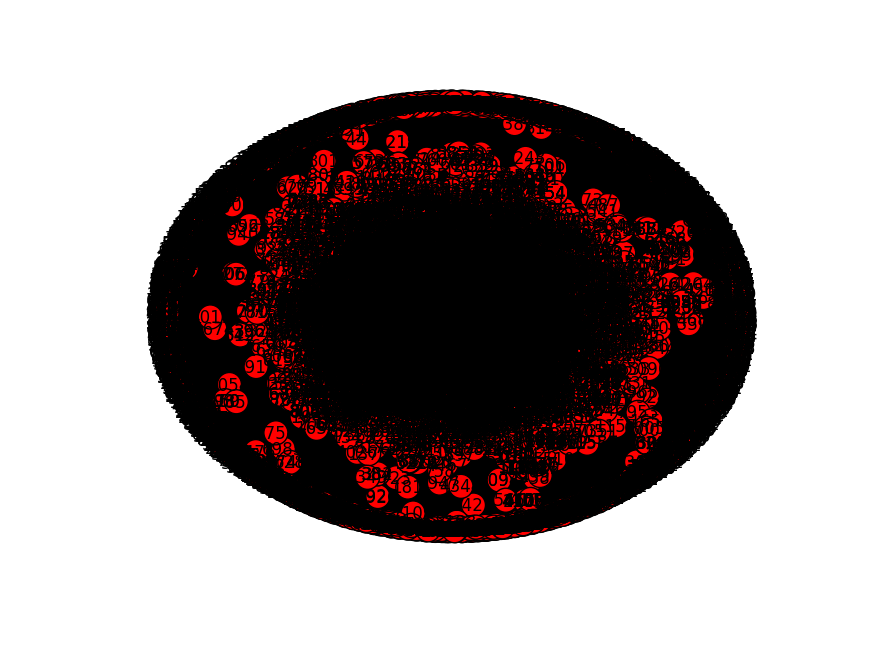
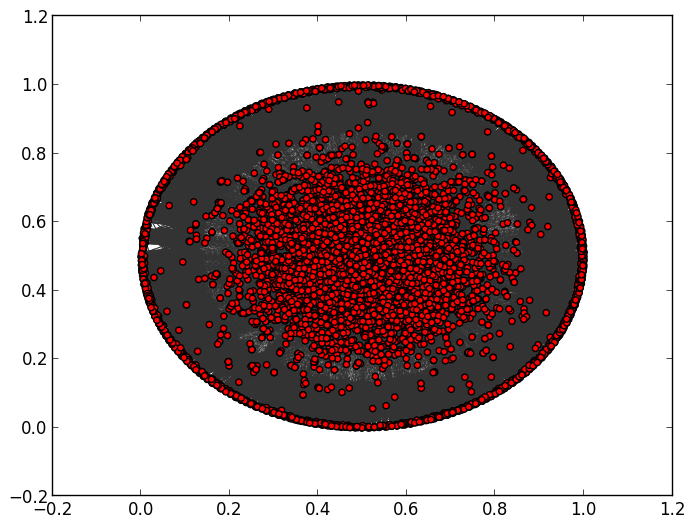
Finished plotting

diff --git a/src/plot.py b/src/plot.py
@@ -120,7 +120,8 @@ def plot_neigh_overlap_dist(neigh_overlaps):
 
 def plot_graph(graph):
     pl.figure()
-    nx.draw_networkx(graph, with_labels=False)
+    nx.draw_networkx(graph, with_labels=False, node_size=20, width=.2,
+            style='dotted', edge_color='0.2')
     pl.savefig(os.path.join(os.path.dirname(__file__),
         '../output/subgraph.png'), bbox_inches='tight')
 
@@ -159,60 +160,45 @@ def main():
     graph = \
         nx.read_gpickle(os.path.join(os.path.dirname(__file__),
             '../data/wiki-vote.gpickle'))
-    #print '----- Finished reading graph -----'
-    #total_degrees, in_degrees, out_degrees = metrics.get_nodes_degrees(graph)
-    #plot_degree_dist(in_degrees, out_degrees, total_degrees)
-    #clus_coeffs = metrics.get_all_nodes_cluster_coeffs(graph)
-    #print scipy.mean(clus_coeffs)
-    #plot_clust_coeff_dist(clus_coeffs)
-    #if nx.is_directed(graph):
-        #strong_ccs_sizes = metrics.get_strongly_ccs_sizes(graph)
-        #plot_strongly_ccs_dist(strong_ccs_sizes)
-        #undirected_graph = graph.to_undirected()
-        #conn_comp_sizes = metrics.get_connected_comp_sizes(undirected_graph)
-    #else:
-        #conn_comp_sizes = metrics.get_connected_comp_sizes(graph)
-    #if len(conn_comp_sizes) > 1:
-        #plot_connected_comp_dist(conn_comp_sizes)
-    #else:
-        #print 'There is only one connected component in the undirected graph.'
-    #neigh_overlaps = metrics.get_neighborhood_overlap(graph).values()
-    #plot_neigh_overlap_dist(neigh_overlaps)
-    #distances = metrics.get_all_nodes_shortest_paths_sizes(graph) 
-    #plot_distances_dist(distances)
-    #edges_betweenness = metrics.get_edges_betweenness(graph)
-    ##nx.write_gpickle(edges_betweenness, os.path.join(os.path.dirname(__file__),
-    ##        '../data/betweenness.gpickle'))
-    ##edges_betweenness = nx.read_gpickle(os.path.join(os.path.dirname(__file__),
-    ##        '../data/betweenness.gpickle'))
-    #plot_edges_betweenness_dist(edges_betweenness) 
-    #nodes_betweenness = metrics.get_nodes_betweenness(graph)
-    ##nx.write_gpickle(nodes_betweenness, os.path.join(os.path.dirname(__file__),
-    ##        '../data/nodes_betweenness.gpickle'))
-    ##nodes_betweenness = nx.read_gpickle(os.path.join(os.path.dirname(__file__),
-    ##        '../data/nodes_betweenness.gpickle'))
-    #plot_nodes_betweenness_dist(nodes_betweenness)
-    #bridges2 = [bridge for bridge in metrics.get_bridges(graph)]
-    #print len(bridges2)
-    #nx.write_gpickle(bridges2, os.path.join(os.path.dirname(__file__),
-    #        '../data/bridges2.gpickle'))
-    #bridges3 = [bridge for bridge in metrics.get_bridges(graph, threshold=3)]
-    #print len(bridges3)
-    #nx.write_gpickle(bridges3, os.path.join(os.path.dirname(__file__),
-    #        '../data/bridges3.gpickle'))
-    #bridges4 = [bridge for bridge in metrics.get_bridges(graph, threshold=4)]
-    #print len(bridges4)
-    #nx.write_gpickle(bridges4, os.path.join(os.path.dirname(__file__),
-    #        '../data/bridges4.gpickle'))
-    #bridges5 = [bridge for bridge in metrics.get_bridges(graph, threshold=5)]
-    #print len(bridges5)
-    #nx.write_gpickle(bridges5, os.path.join(os.path.dirname(__file__),
-    #        '../data/bridges5.gpickle'))
-    bridges6 = [bridge for bridge in metrics.get_bridges(graph, threshold=6)]
-    print len(bridges6)
-    nx.write_gpickle(bridges6, os.path.join(os.path.dirname(__file__),
-            '../data/bridges6.gpickle'))
-    #plot_graph(graph)
+    print '----- Finished reading graph -----'
+    total_degrees, in_degrees, out_degrees = metrics.get_nodes_degrees(graph)
+    plot_degree_dist(in_degrees, out_degrees, total_degrees)
+    clus_coeffs = metrics.get_all_nodes_cluster_coeffs(graph)
+    print scipy.mean(clus_coeffs)
+    plot_clust_coeff_dist(clus_coeffs)
+    if nx.is_directed(graph):
+       #strong_ccs_sizes = metrics.get_strongly_ccs_sizes(graph)
+       #plot_strongly_ccs_dist(strong_ccs_sizes)
+       #undirected_graph = graph.to_undirected()
+       #conn_comp_sizes = metrics.get_connected_comp_sizes(undirected_graph)
+    else:
+       #conn_comp_sizes = metrics.get_connected_comp_sizes(graph)
+    if len(conn_comp_sizes) > 1:
+       #plot_connected_comp_dist(conn_comp_sizes)
+    else:
+       #print 'There is only one connected component in the undirected graph.'
+    neigh_overlaps = metrics.get_neighborhood_overlap(graph).values()
+    plot_neigh_overlap_dist(neigh_overlaps)
+    distances = metrics.get_all_nodes_shortest_paths_sizes(graph)
+    print max(distances)
+    plot_distances_dist(distances)
+    edges_betweenness = metrics.get_edges_betweenness(graph)
+    #nx.write_gpickle(edges_betweenness, os.path.join(os.path.dirname(__file__),
+    #        '../data/betweenness.gpickle'))
+    #edges_betweenness = nx.read_gpickle(os.path.join(os.path.dirname(__file__),
+    #        '../data/betweenness.gpickle'))
+    plot_edges_betweenness_dist(edges_betweenness) 
+    nodes_betweenness = metrics.get_nodes_betweenness(graph)
+    #nx.write_gpickle(nodes_betweenness, os.path.join(os.path.dirname(__file__),
+    #        '../data/nodes_betweenness.gpickle'))
+    #nodes_betweenness = nx.read_gpickle(os.path.join(os.path.dirname(__file__),
+    #        '../data/nodes_betweenness.gpickle'))
+    plot_nodes_betweenness_dist(nodes_betweenness)
+    bridges2 = [bridge for bridge in metrics.get_bridges(graph)]
+    print len(bridges2)
+    nx.write_gpickle(bridges2, os.path.join(os.path.dirname(__file__),
+            '../data/bridges2.gpickle'))
+    plot_graph(graph)
 
 
 if __name__ == '__main__':
